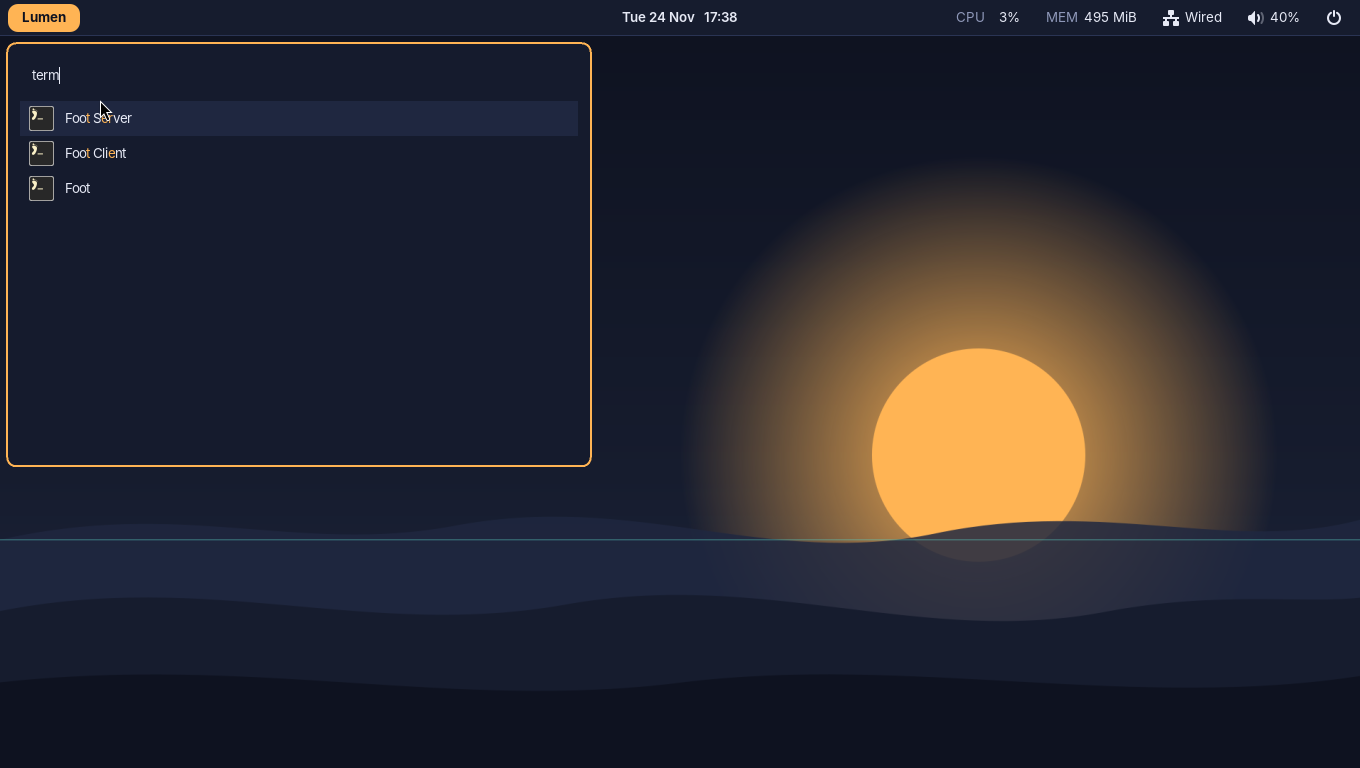
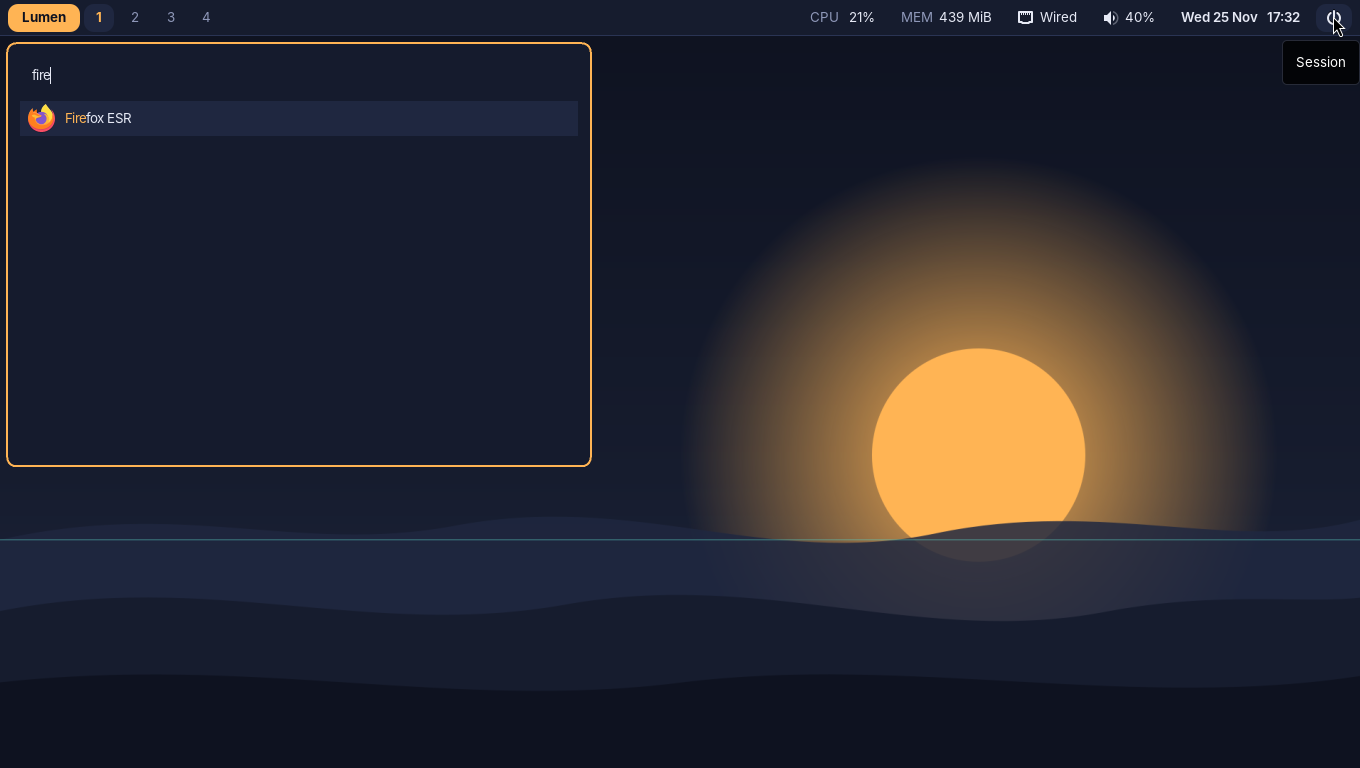
docs: panel task list, launcher menus and refreshed screenshots
Document the second Wayland connection and the new modules and launcher
modes, the protocols the desktop now uses, the vendored protocol XML, the
17-check boot test, and replace the screenshots with ones taken from the
current ISO (boot menus, task list, window switcher, login screen).

Changed region(s): [[0.5868, 0.0, 1.0, 0.125], [0.0, 0.0938, 0.0926, 0.25], [0.4632, 0.0, 0.5559, 0.0312]]

diff --git a/docs/COMPONENTS.md b/docs/COMPONENTS.md
@@ -24,10 +24,38 @@ lumen_panel/
   theme.py        ThemeLoader: shipped CSS (APPLICATION priority) + user CSS (USER priority)
   sysinfo.py      pure parsers: /proc/stat, /proc/meminfo, sysfs battery & network, wpctl output
   util.py         non-blocking subprocess helpers on Gio.Subprocess
-  modules/        launcher, clock, cpu, memory, network, volume, battery, power
+  wayland.py      second Wayland connection: foreign-toplevel + ext-workspace client (pywayland)
+  wlstate.py      pure window/workspace state and protocol decoding
+  apps.py         app_id -> desktop entry and icon (Gio)
+  protocols/      Python bindings generated from protocols/*.xml (tools/gen-protocols.sh)
+  modules/        launcher, workspaces, tasks, clock, cpu, memory, network, volume, battery, power
+protocols/        vendored protocol XML: wlr-foreign-toplevel-management-v1, ext-workspace-v1
 bin/lumen-panel   wrapper that preloads libgtk-layer-shell
-tests/            22 unit tests (sysinfo, config); no display required
+tests/            35 unit tests (sysinfo, config, window/workspace state); no display required
 ```
+
+### Windows and workspaces: a second Wayland connection
+
+GTK owns the panel's main Wayland connection and only speaks the protocols it needs to draw.
+A task list and a workspace indicator need two more, so `wayland.py` opens **its own connection**
+to the same compositor (through pywayland) and binds:
+
+| Protocol | Global | Gives the panel | Requests used |
+|---|---|---|---|
+| wlr-foreign-toplevel-management v3 | `zwlr_foreign_toplevel_manager_v1` | one handle per window: title, app_id, state (activated, minimised, maximised, fullscreen) | `activate(seat)`, `set_minimized`, `unset_minimized`, `close` |
+| ext-workspace v1 (wayland-protocols staging) | `ext_workspace_manager_v1` | workspaces: name, coordinates, state (active, urgent, hidden) | `activate` + `commit` |
+| core | `wl_seat` | the seat named in `activate` | |
+
+Both protocols batch property events and close each batch with `done`; the client calls its
+subscribers once per batch, so a window that changes title and state redraws once. The
+connection's file descriptor is watched by the GLib main loop (`GLib.unix_fd_add_full`) and
+events are dispatched when it becomes readable, so nothing blocks and no thread is needed. One
+connection is shared by every module on every monitor. If pywayland is missing or the
+compositor lacks the protocols, the two modules hide themselves and the rest of the panel runs.
+
+pywayland ships only the core protocol, so the XML of both protocols is vendored in
+`protocols/` and `tools/gen-protocols.sh` generates the bindings (committed, like the theme).
+The script also breaks an import cycle the generator produces for ext-workspace (handle ↔ group).
 
 ### How it talks to the compositor
 
@@ -61,6 +89,8 @@ config reload leak-free: a reload tears windows down and rebuilds them.
 | Module | Source of data | Interaction |
 |---|---|---|
 | `launcher` | n/a | click: run `lumen-launcher` |
+| `workspaces` | ext-workspace | click: switch; scroll: next/previous; the current one is amber |
+| `tasks` | wlr-foreign-toplevel | click: focus, or minimise the focused window; middle click: close. Icons from the app's desktop entry; titles ellipsize so many windows share the space |
 | `clock` | `time.localtime()` | click: calendar popover; `format` is strftime |
 | `cpu` | `/proc/stat` deltas | warn/critical colour thresholds |
 | `memory` | `/proc/meminfo` (total − available) | warn/critical thresholds |
@@ -73,8 +103,8 @@ Design rules followed throughout:
 
 * **Never block the main loop.** All commands go through `Gio.Subprocess` with async completion.
 * **Isolate failures.** A timer callback that raises is logged and the next tick still runs.
-* **Separate logic from GTK.** `sysinfo.py` and `config.py` import nothing graphical, which is
-  what lets the 22 unit tests run in CI without a compositor.
+* **Separate logic from GTK.** `sysinfo.py`, `config.py` and `wlstate.py` import nothing
+  graphical, which is what lets the 35 unit tests run in CI without a compositor.
 * **Degrade quietly.** Missing `wpctl`, no battery, no wireless: the module shows `n/a` or hides.
 
 ### Reload
@@ -98,10 +128,10 @@ Add the file to `load_builtin_modules()` and name it in `layout.right`.
 
 ### Known limitations
 
-* No task list / window switcher. That needs the `wlr-foreign-toplevel-management` protocol,
-  which GTK does not expose; it would require a Wayland client binding (for example
-  `pywayland`). labwc's own Alt+Tab switcher covers window switching meanwhile.
-* No system tray (StatusNotifierItem) and no workspace indicator.
+* No system tray (StatusNotifierItem).
+* The task list shows the windows of every output and workspace: neither protocol, as labwc
+  0.8 implements them, says which workspace a window is on. Activating a window on another
+  workspace switches to it.
 * Popover placement relies on GTK's xdg_popup handling for layer surfaces.
 
 ---
@@ -113,14 +143,16 @@ integration:
 
 | Customisation | Where | Why it matters |
 |---|---|---|
-| Theme generated from the shared palette | `theme/templates/fuzzel.ini.tpl` | identical colours, radius, border and font as the panel and windows |
+| Theme generated from the shared palette | `theme/templates/fuzzel.ini.tpl` | identical colours, radius, border and font as the panel and windows; the desktop's Papirus-Dark icons; fixed 96 dpi; fuzzel's large single-match image turned off (`image-size-ratio=1`), which had drawn one icon over the whole list |
 | Toggle behaviour | `bin/lumen-launcher` | one key or button opens *and* closes the launcher (fuzzel alone only opens) |
 | Config layering | `bin/lumen-launcher` | `~/.config/lumen/launcher.ini` replaces the distribution theme without editing system files |
-| Three modes | `bin/lumen-launcher` | apps (default), `--run` (executables in `PATH`), `--dmenu` (scripting) |
+| Five modes | `bin/lumen-launcher` | apps (default), `--run` (executables in `PATH`), `--dmenu` (scripting), `--windows`, `--session` |
+| Window switcher | `bin/lumen-windows` | `Super+Tab`: open windows with their app icons in the launcher; pick one to focus it. The list comes from the compositor through lumen-panel's foreign-toplevel client, and is shown through fuzzel's dmenu mode in the launcher's own theme |
+| Session menu | `bin/lumen-launcher --session` | `Super+Escape`: lock, log out, restart, power off from the keyboard |
 | Panel-aware placement | `fuzzel.ini` (`anchor=top-left`, zone 0) | the compositor places it inside the usable area, so it opens under the panel with no hard-coded offsets |
 | Panel integration | `lumen-panel` launcher module | the **Lumen** button runs the wrapper |
-| Compositor integration | `rc.xml` | `Super+Space`, `Alt+F2`, root-menu entry |
-| Packaging | `lumen-launcher` `.deb` | depends on fuzzel, recommends icon theme and notifications |
+| Compositor integration | `rc.xml` | `Super+Space`, `Alt+F2`, `Super+Tab`, `Super+Escape`, root-menu entry |
+| Packaging | `lumen-launcher` `.deb` | depends on fuzzel and lumen-panel (window list), recommends icon theme and notifications |
 | Graceful failure | `bin/lumen-launcher` | if fuzzel is missing, a notification and a non-zero exit instead of nothing |
 
 Fuzzel was chosen because it is itself a layer-shell client, so it behaves correctly with the

diff --git a/README.md b/README.md
@@ -5,8 +5,8 @@ A Debian 13 ("trixie") based live distribution with a Wayland desktop built on t
 
 | Component | Role | Origin |
 |---|---|---|
-| **lumen-panel** | Desktop panel / status bar | **Written from scratch** (Python, GTK3, wlr-layer-shell) |
-| **lumen-launcher** | Application launcher | **Customised and integrated** [fuzzel](https://codeberg.org/dnkl/fuzzel) |
+| **lumen-panel** | Desktop panel / status bar: workspaces, task list, system status | **Written from scratch** (Python, GTK3, wlr-layer-shell, plus its own ext-workspace and wlr-foreign-toplevel client) |
+| **lumen-launcher** | Application launcher, window switcher, session menu | **Customised and integrated** [fuzzel](https://codeberg.org/dnkl/fuzzel) |
 
 Everything visual (compositor decorations, panel, launcher, GTK theme, terminal,
 notifications, wallpaper) is generated from one palette file, so the desktop has a single
@@ -22,34 +22,44 @@ consistent identity: **Lumen Dusk**, deep navy surfaces with an amber accent.
 
 Every push builds the ISO in CI and then **boots it headless in QEMU under both BIOS and UEFI**
 ([tests/boot_test.py](tests/boot_test.py)). The test waits for automatic login, then drives the
-desktop through QEMU's control socket, saves a screenshot at each step and fails if a check
-fails. The latest run passed all 8 checks on both firmware types:
+desktop through QEMU's control socket, saves a screenshot at each step and fails if any check
+fails. Panel modules are found on the screenshot rather than by fixed coordinates. All 17 checks
+pass on both firmware types:
 
-| Check | BIOS | UEFI |
-|---|---|---|
-| Desktop reached after automatic login (no manual steps) | 40 s | 115 s |
-| Screen is 1360x768 (virtual-GPU mode set by the session) | pass | pass |
-| Clock click opens the calendar below the panel | pass | pass |
-| Power icon opens the session menu below the panel | pass | pass |
-| `Super+Space` opens the launcher | pass | pass |
-| Launcher draws no oversized icon (a bug found earlier) | pass | pass |
-| Terminal opens and a notification appears | pass | pass |
-| Scrolling over the volume module changes it | pass | pass |
+| Check | What it proves |
+|---|---|
+| Boot menu carries the Lumen branding | palette splash, isolinux colours and GRUB theme in the image |
+| Desktop reached after automatic login, at 1360x768 | live user, greetd autologin, labwc session, virtual-GPU mode |
+| Clock opens the calendar; power icon opens the session menu | panel popovers on a layer-shell surface |
+| Workspace indicator follows `Super+2` | panel's ext-workspace client |
+| A new window appears in the task list | panel's wlr-foreign-toplevel client |
+| Scrolling over the volume module changes it | panel → WirePlumber |
+| `Super+Space` opens the launcher, with no oversized icon | fuzzel integration and theme |
+| `Super+Escape` opens the session menu | launcher session mode |
+| `Super+Tab` opens the window switcher, with no oversized icon | launcher window switcher over foreign-toplevel |
+| A notification appears top right with the amber border | mako, themed from the palette |
+| Thunar shows the Lumen selection colour and no Adwaita blue | recoloured GTK theme + GSettings defaults |
+| Logging out shows the Lumen login screen; logging in again works | greetd + gtkgreet in cage |
 
-Boot-testing found and fixed several bugs, all visible in the git history: the live user was never
-created, a console login competed with greetd for the first VT, the launcher drew one icon at
-full-screen size, and the panel's popovers opened off-screen. Screenshots below were captured
-from the built ISO by that test: [desktop](docs/screenshots/desktop.png),
-[calendar](docs/screenshots/panel-calendar.png), [session menu](docs/screenshots/panel-power-menu.png),
-[launcher](docs/screenshots/launcher.png),
-[terminal with notification](docs/screenshots/terminal-notification.png).
+The desktop appears 85 s after the boot menu in software emulation on Apple Silicon (no KVM).
+Boot-testing found and fixed real bugs, all in the git history, for example: the live user was
+never created, a console login competed with greetd for the first VT, the panel's popovers opened
+off-screen, GTK apps ignored the theme, and Debian's pywayland lacks a dependency on the cffi
+runtime.
+
+Screenshots, all captured from the built ISO by that test:
+[desktop with task list and Lumen GTK theme](docs/screenshots/desktop.png),
+[calendar](docs/screenshots/panel-calendar.png), [panel session menu](docs/screenshots/panel-power-menu.png),
+[launcher](docs/screenshots/launcher.png), [window switcher](docs/screenshots/window-switcher.png),
+[launcher session menu](docs/screenshots/session-menu.png),
+[terminal with notification](docs/screenshots/terminal-notification.png),
+[login screen](docs/screenshots/login-screen.png),
+boot menu [BIOS](docs/screenshots/boot-menu-bios.png) / [UEFI](docs/screenshots/boot-menu-uefi.png).
 
 Also checked by hand on the built ISO: moving the panel to the bottom edge through
-`~/.config/lumen/panel.toml` (live reload, popovers open upwards), lock and unlock, the run
-launcher (`Alt+F2`), the file manager in the Lumen GTK theme, and logging out to the graphical
-login screen. Not yet verified: GPU-accelerated rendering (`GL=1`), real hardware, Wi-Fi and
-audio output. Everything above ran on virtual devices. In plain software emulation without KVM the desktop takes 2 to 3 minutes to
-appear; with KVM it takes under two minutes.
+`~/.config/lumen/panel.toml` (live reload, popovers open upwards), lock and unlock, and the run
+launcher (`Alt+F2`). Not yet verified: GPU-accelerated rendering (`GL=1`), real hardware, Wi-Fi
+and audio output; everything above ran on virtual devices.
 Work through [docs/TESTING.md](docs/TESTING.md) to repeat the checks by hand.
 
 ## Build the ISO
@@ -129,6 +139,8 @@ The boot menu defaults to the live system; the desktop appears after the automat
 | Keys | Action |
 |---|---|
 | `Super+Space` or the **Lumen** button | Application launcher (press again to close) |
+| `Super+Tab` | Window switcher (open windows, in the launcher) |
+| `Super+Escape` | Session menu: lock, log out, restart, power off |
 | `Alt+F2` | Run a command |
 | `Super+Return` | Terminal (foot) |
 | `Super+E` / `Super+B` | Files / Web browser |
@@ -139,8 +151,10 @@ The boot menu defaults to the live system; the desktop appears after the automat
 | `Super+L` | Lock screen |
 | `Super+Shift+R` / `Super+Shift+E` | Reload compositor config / log out |
 
-Panel: click the clock for a calendar, scroll on the volume to change it, click it to mute
-(right-click opens the mixer), click the power icon for lock/logout/restart/power off.
+Panel, left to right: the **Lumen** launcher button; workspace numbers (click or scroll to
+switch); a task button per window (click to focus, click the focused one to minimise, middle
+click to close); system status; the clock (click for a calendar); the power icon. Scroll on the
+volume to change it, click it to mute (right-click opens the mixer).
 
 ## Customising
 

diff --git a/docs/TESTING.md b/docs/TESTING.md
@@ -3,9 +3,11 @@
 ## Boot test in CI (the shipped ISO, BIOS and UEFI)
 
 `tests/boot_test.py` boots the ISO in QEMU without a display and uses QEMU's QMP socket for
-screenshots, key presses and absolute mouse events. It passes only if the desktop appears after
-automatic login at 1360x768 and the calendar, session menu, launcher, notification, maximised
-window and volume scroll all behave. CI runs it for both firmware types after every build and
+screenshots, key presses and absolute mouse events. It passes only if every check holds: the
+branded boot menu, the desktop after automatic login at 1360x768, the panel's calendar, session
+menu, workspace indicator and task list, the launcher and its window switcher and session menu,
+the notification, volume scrolling, the Lumen GTK theme in Thunar, and logging out to the login
+screen and back in. Panel modules are located on the screenshot, not by fixed coordinates. CI runs it for both firmware types after every build and
 uploads the screenshots as the `boot-test-bios` and `boot-test-uefi` artifacts (about 600 KB each).
 To run it yourself on Linux:
 
@@ -50,6 +52,9 @@ line when you demo it.
 **Panel (from scratch)**
 - [ ] Panel visible at the top, full width, on top of the wallpaper
 - [ ] A maximised window stops *below* the panel (exclusive zone working)
+- [ ] Workspace numbers on the left; `Super+2` moves the amber highlight; scrolling over them switches
+- [ ] Every window has a task button with its app icon; the focused one is underlined in amber;
+      clicking it minimises it, clicking again restores it; middle click closes it
 - [ ] Clock updates; clicking it opens the calendar popover
 - [ ] CPU and memory values change when a load is started (`yes > /dev/null`)
 - [ ] Network shows `Wired` in QEMU user networking
@@ -62,6 +67,8 @@ line when you demo it.
 
 **Launcher (customised)**
 - [ ] `Super+Space` opens it under the panel; pressing it again closes it
+- [ ] `Super+Tab` lists open windows with icons; Enter focuses the chosen one
+- [ ] `Super+Escape` offers lock, log out, restart, power off
 - [ ] The **Lumen** panel button opens it; typing filters applications; Enter starts one
 - [ ] Colours match the panel and window borders
 
@@ -82,9 +89,9 @@ If the screen stays black in QEMU, try `-device virtio-vga` (default) and confir
 |---|---|---|
 | 0:00 | Terminal: `make iso` finished, `ls -lh dist/`; then QEMU command | Reproducible Debian 13 ISO built with live-build in a container |
 | 0:15 | Boot, auto login, desktop appears | Live image, greetd autologin into a labwc Wayland session |
-| 0:30 | Panel: hover modules, click clock calendar, scroll volume | The panel is written from scratch on wlr-layer-shell |
+| 0:30 | Panel: switch workspaces, click task buttons, clock calendar, scroll volume | The panel is written from scratch on wlr-layer-shell, ext-workspace and foreign-toplevel |
 | 0:50 | Maximise a window; it stops under the panel | The panel reserves space with an exclusive zone; the compositor does the rest |
-| 1:05 | `Super+Space`: launcher; start Terminal; press again to close | fuzzel, customised: palette theme, toggle wrapper, panel integration |
+| 1:05 | `Super+Space`: launcher; start Terminal; `Super+Tab` window switcher | fuzzel, customised: palette theme, toggle, window switcher and session menu |
 | 1:25 | Edit `~/.config/lumen/panel.toml` live (position or layout) | Config and CSS hot-reload |
 | 1:40 | Open a notification, Thunar, terminal | One palette generates every surface |
 | 1:50 | `sh -c 'cat /etc/os-release \| head -3'`, `dpkg -l 'lumen-*'` | Shipped as proper Debian packages |

diff --git a/docs/DESIGN-DECISIONS.md b/docs/DESIGN-DECISIONS.md
@@ -94,8 +94,20 @@ owned by another user, which git otherwise refuses), deterministic theme generat
 and a CI freshness check. What is not: live-build embeds timestamps and some ordering, so the
 ISO is repeatable in *inputs*, not bit-identical. The README states this plainly.
 
+## Task list over a second Wayland connection
+
+GTK3 has no API for other clients' windows or for workspaces, and its Wayland connection is
+private. The panel therefore opens a second connection with pywayland (packaged in Debian)
+for wlr-foreign-toplevel-management and ext-workspace, integrated into the GLib main loop
+through the connection's file descriptor. *Alternatives:* labwc's IPC does not exist; parsing
+the compositor's state from outside is not possible on Wayland by design; a C extension for
+the protocols would add a compiler to the build. *Trade-off:* pywayland's generator needs a
+small post-processing step (an import cycle in ext-workspace), kept in `tools/gen-protocols.sh`.
+The clock moved from the centre to the right group so the task list can use the middle of the
+bar, as on most desktops.
+
 ## Left out on purpose
 
-Task list / system tray in the panel (need protocol bindings outside GTK), an installer
+A system tray in the panel (StatusNotifierItem is a D-Bus protocol with its own menu model), an installer
 (`--debian-installer none`; the ISO is a live system), boot-time splash (Plymouth), Secure Boot
 signing.

diff --git a/docs/THIRD-PARTY.md b/docs/THIRD-PARTY.md
@@ -27,11 +27,21 @@
 | [gtkgreet](https://git.sr.ht/~kennylevinsen/gtkgreet) (GPL-3.0) and [cage](https://github.com/cage-kiosk/cage) (MIT) | the login screen: palette-generated stylesheet, launched by the greetd configuration |
 | live-build (GPL-3.0+) boot menu | palette-generated splash, isolinux colours, GRUB theme, entry names |
 
+## Reused protocol definitions
+
+| Item | License | Path |
+|---|---|---|
+| `wlr-foreign-toplevel-management-unstable-v1.xml` (wlr-protocols) | MIT-style (in the file) | `components/lumen-panel/protocols/` |
+| `ext-workspace-v1.xml` (wayland-protocols 1.44, as in Debian 13) | MIT | `components/lumen-panel/protocols/` |
+
+Their Python bindings in `components/lumen-panel/lumen_panel/protocols/` are generated by
+pywayland-scanner (`tools/gen-protocols.sh`); the client code using them is original.
+
 ## Reused without modification
 
 Debian 13 base system and kernel, live-build, live-boot, live-config, wlroots, systemd,
 PipeWire/WirePlumber, NetworkManager, Mesa, XWayland, swaybg, swaylock, grim, slurp,
-wl-clipboard, Thunar, Firefox ESR, Mousepad, GTK 3, gtk-layer-shell (MIT), PyGObject, the
+wl-clipboard, Thunar, Firefox ESR, Mousepad, GTK 3, gtk-layer-shell (MIT), PyGObject, pywayland (NCSA), the
 Inter and JetBrains Mono fonts, Papirus and Adwaita icon themes.
 
 All third-party software is installed from the Debian archive and retains its own license; only

diff --git a/docs/ARCHITECTURE.md b/docs/ARCHITECTURE.md
@@ -90,6 +90,8 @@ implementations), which is the part not worth rewriting for a six-day project.
 |---|---|---|
 | `xdg_shell` | every normal window | toplevel/popup windows, maximise, fullscreen |
 | `wlr-layer-shell-unstable-v1` | panel, launcher, mako, swaybg, slurp | surfaces that are *not* windows: placed on a layer, anchored to edges, optionally reserving space |
+| `wlr-foreign-toplevel-management-unstable-v1` | panel task list, launcher window switcher | other clients' windows: title, app_id, state; activate, minimise, close |
+| `ext-workspace-v1` | panel workspace indicator | the compositor's workspaces and which is active; switch |
 | `xdg-decoration` | labwc, GTK/Qt clients | server-side titlebars so all windows look uniform |
 | `wlr-screencopy` | grim | screenshots |
 | `wl_data_device` / `wlr-data-control` | wl-clipboard | clipboard |
